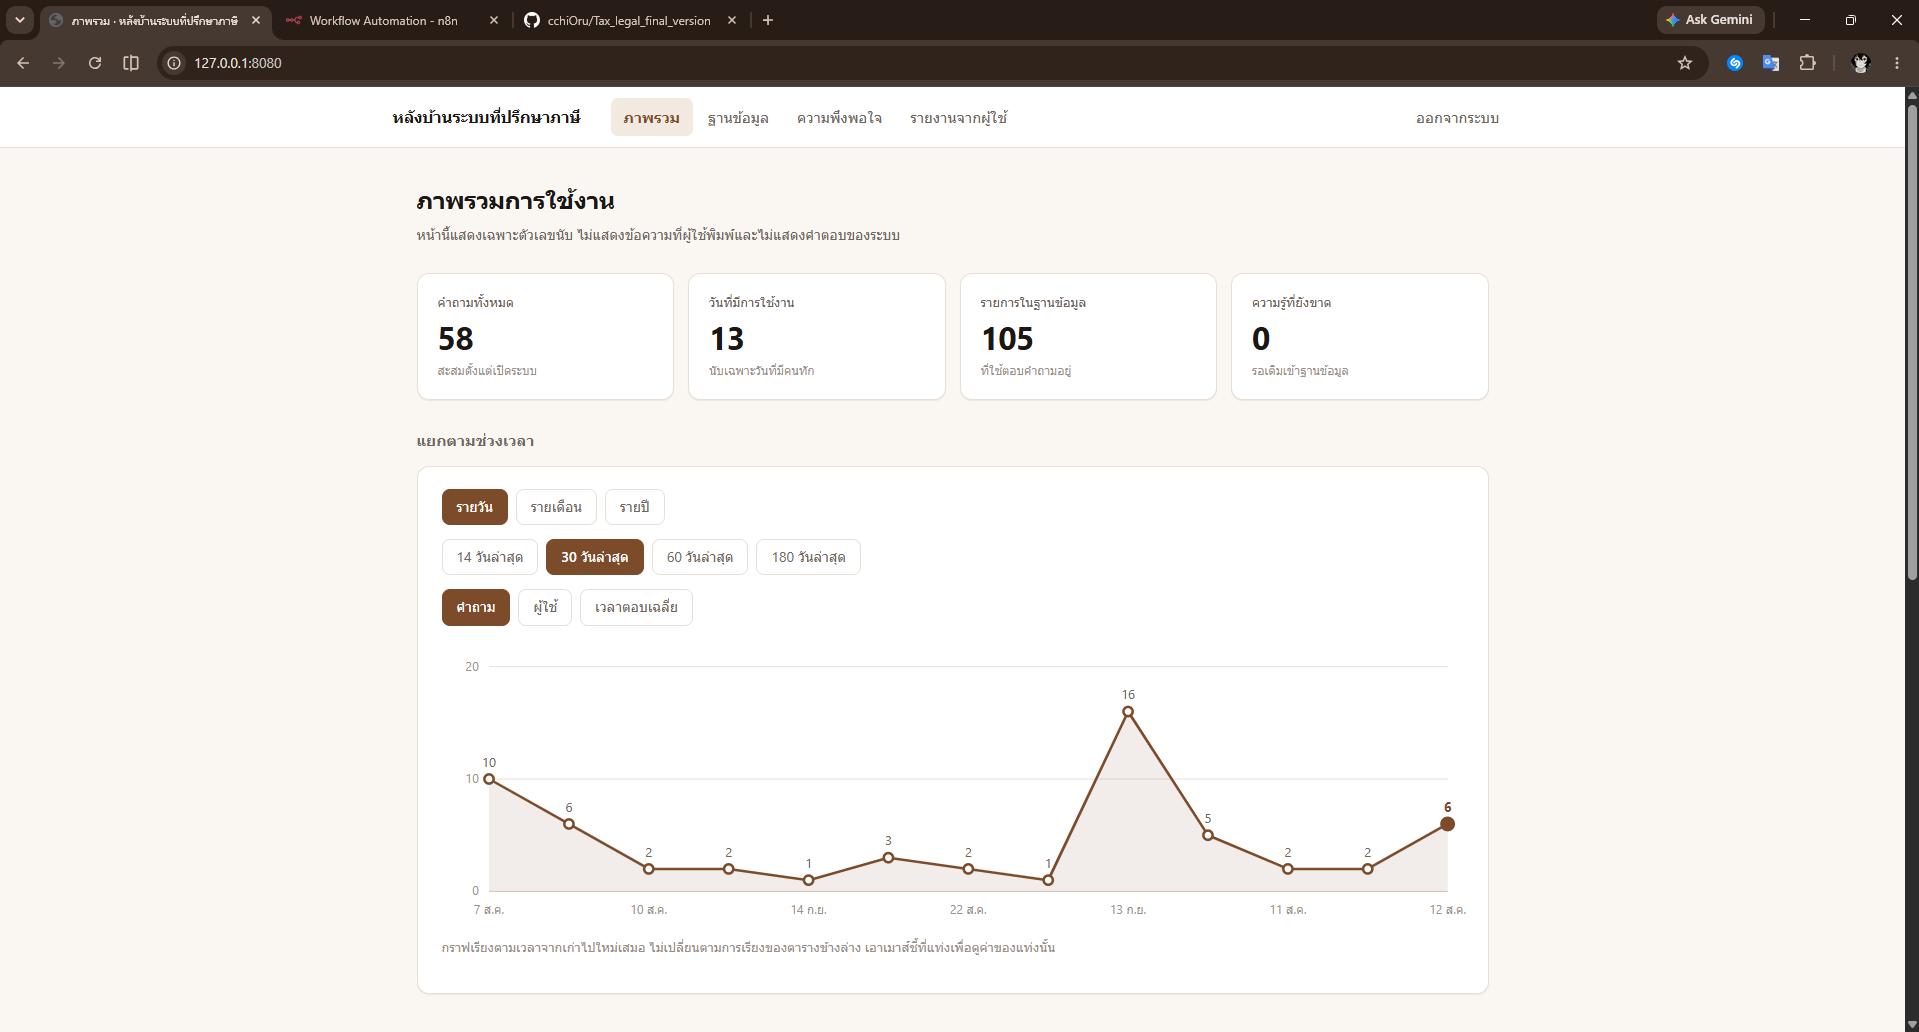
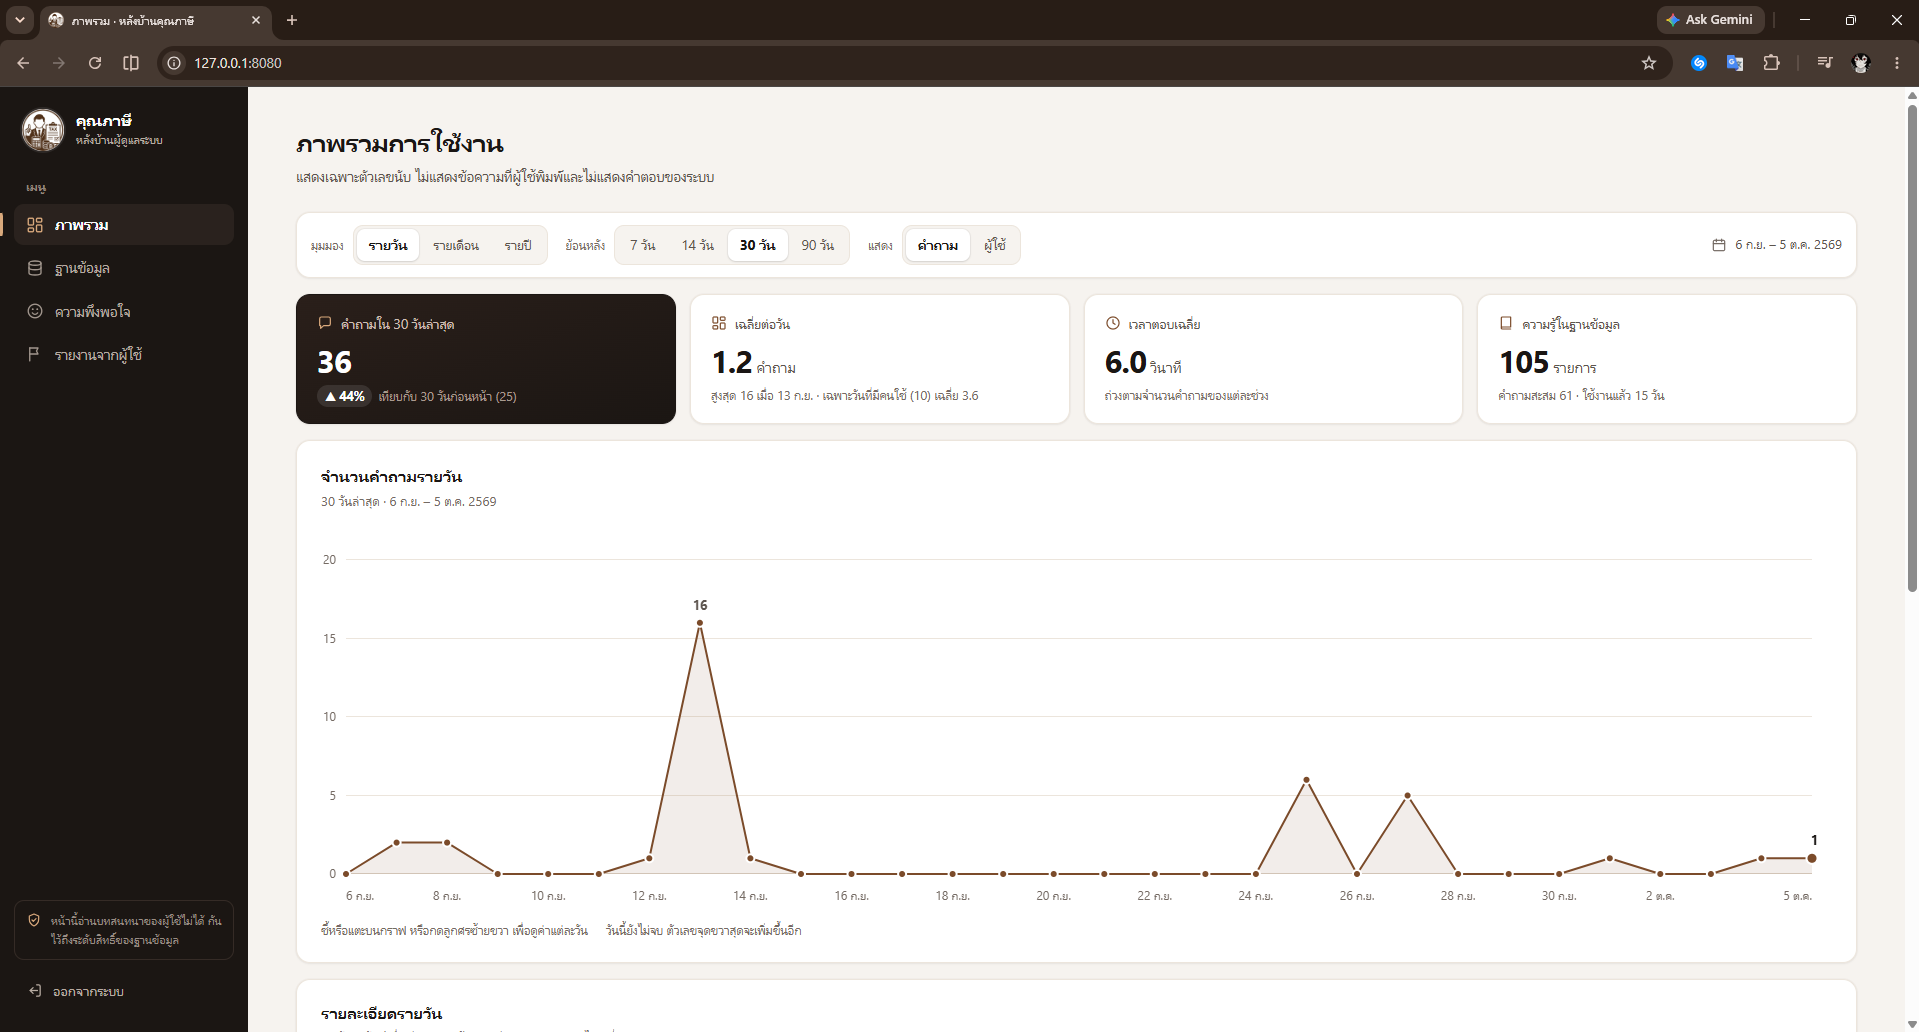
Update README ver3.1

diff --git a/evaluation/check-knowledge-coverage.js b/evaluation/check-knowledge-coverage.js
@@ -107,8 +107,8 @@ function main() {
     for (const r of thin) console.log(`    ${r.id} [${r.category}] ${r.titles[0]}`);
   }
 
-  // ---- 1ข. ข้อมูลที่ค้นมา "มีคำตอบอยู่จริง" หรือแค่เกี่ยวข้องกว้าง ๆ ----
-  // เข้มกว่าข้อ 1: ดูว่าคำตอบที่คาดหวัง (เช่น "60,000") อยู่ในบริบทที่ค้นมาหรือไม่
+  // ---- 1ข. ข้อมูลที่ค้นมา "มีคำตอบอยู่จริง" หรือแค่เกี่ยวข้องกว้างๆ ----
+  // ดีกว่าข้อ 1: ดูว่าคำตอบที่คาดหวัง อยู่ในบริบทที่ค้นมามั้ย
   // ถ้าไม่อยู่ แบบจำลองต้องตอบจากความรู้ในตัวเอง ไม่ใช่จากฐานข้อมูล
   const kwQuestions = questions.filter((q) => q.check === 'keywords' && Array.isArray(q.expected));
   const answered = [];

diff --git a/evaluation/run-accuracy-test.js b/evaluation/run-accuracy-test.js
@@ -30,7 +30,7 @@ const {
 
 const ROOT = path.join(__dirname, '..');
 
-// ---- อ่านค่าจากไฟล์ .env (ค่าใน process.env มาก่อน) ----
+// ---- อ่านค่าจากไฟล์ .env ----
 function loadEnv() {
   const p = path.join(ROOT, '.env');
   const env = { ...process.env };
